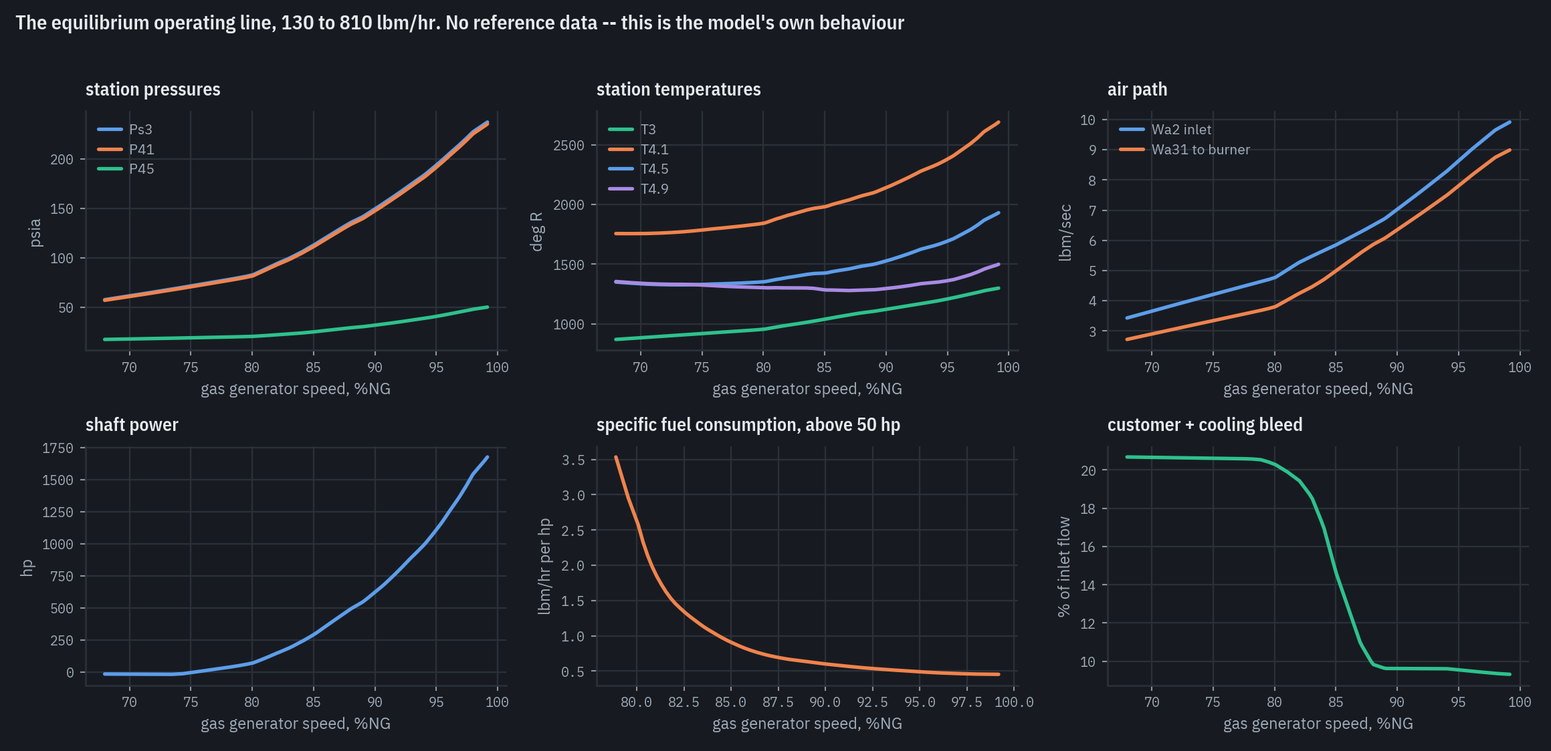
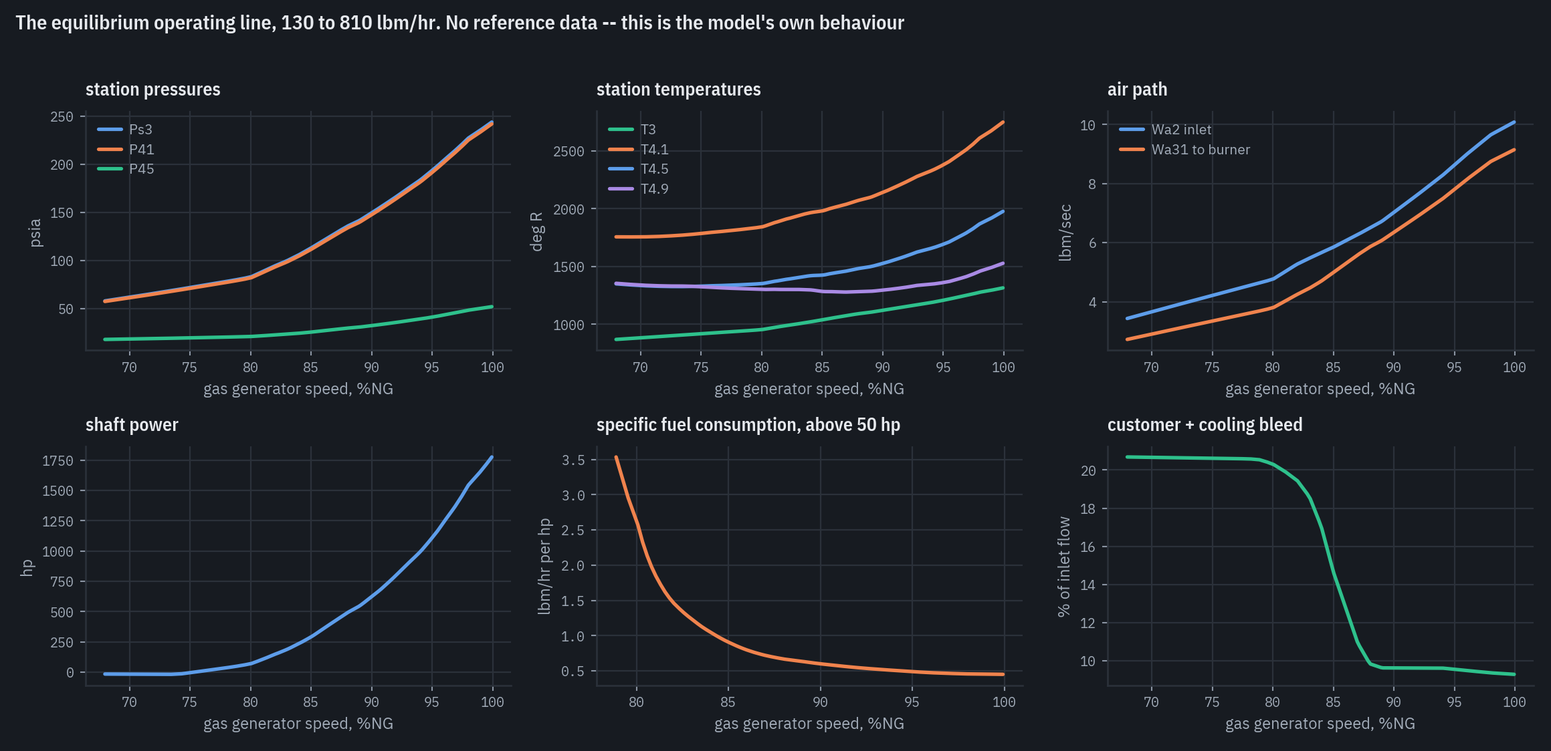
the trim bound was a knob; projection and inward differencing are not
The margin added in 7fc40c9 -- f1's speed range widened by a tenth of itself -- was a
tuned constant and it deserved the objection. Replaced by two standard techniques that
need nothing chosen, and the result is strictly better.

WHY NO RESIDUAL CAN FIX THIS. Rewriting dNG/dt as a power balance removes the root at
infinity and replaces it with something worse: outside the tables the residual reads a
constant +633.6 below 65 %NGc and -20530 above 100, with a derivative of EXACTLY zero in
both. The Jacobian is then singular in NG and the Newton step is -r/0, so a cold 125
lbm/hr wanders to NGc 24.8. The torque form at least keeps a usable gradient below the map
-- the torques still vary as 1/NG when the powers are pinned -- which is why it handles the
bottom of the range and fails only at the top. Outside the data the model carries no
information about NG at all. The failure is an absence of information, not a bad
formulation, and no choice of residual manufactures it.

WHAT DOES FIX IT. The feasible set is f1's own param_range, which the figure gives us --
the first and last speed line it prints. Two changes:

  * PROJECT a trial step onto that set instead of refusing it. Refusal needs a margin,
    because 115 lbm/hr trims at NGc 65.4218 but its Newton path dips below 65 on the way,
    and the margin is a knob: 0.05 and 0.10 of the span work, 0.20 does not. Projection
    puts the step back on the edge and carries on, so grazing the boundary costs nothing.
[…]

diff --git a/src/t700/trim.py b/src/t700/trim.py
@@ -162,12 +162,6 @@ class TrimResult:
         return "\n".join(lines)
 
 
-def _ngc_pct(ng_rpm: float, amb: Ambient) -> float:
-    """Corrected gas generator speed in percent, as `engine.frame` computes it. Eqs. 5-6."""
-    theta2 = corrections.theta2(amb.t_amb_degR)
-    return 100.0 * corrections.corrected_speed(float(ng_rpm), theta2) / c.NG_DES
-
-
 def _residuals(x: np.ndarray, np_rpm: float, wf_pps: float, amb: Ambient) -> np.ndarray:
     st = State(float(x[0]), np_rpm, float(x[1]), float(x[2]), float(x[3]))
     f = frame(st, wf_pps, amb)
@@ -175,17 +169,32 @@ def _residuals(x: np.ndarray, np_rpm: float, wf_pps: float, amb: Ambient) -> np.
 
 
 def _jacobian(
-    x: np.ndarray, np_rpm: float, wf_pps: float, amb: Ambient, r0: np.ndarray
+    x: np.ndarray,
+    np_rpm: float,
+    wf_pps: float,
+    amb: Ambient,
+    r0: np.ndarray,
+    ng_hi: float | None = None,
 ) -> np.ndarray:
-    """Forward-difference Jacobian.
+    """One-sided difference Jacobian, differencing INWARD at an active bound.
 
     Steps are relative, because NG is order 4e4 rpm while P45 is order 40 psia -- one
     absolute step cannot serve both.
+
+    The direction matters at the top of `f1`'s speed range and only there. A forward probe
+    from NGc 100 lands outside the map, where every table clamps and the residual stops
+    depending on NG, so the NG column reads zero and the Jacobian is singular -- the solve
+    then sits on the boundary and never returns inside. Stepping inward instead reads the
+    real derivative. Without this, projection alone loses 775 and 800 lbm/hr, which trim at
+    NGc 99.4203 and 99.8904; with it they come back. The lower bound needs no such care
+    because a forward step from NGc 65 already points into the data.
     """
     n = x.size
     jac = np.zeros((n, n))
     for i in range(n):
         h = 1e-6 * max(abs(x[i]), 1.0)
+        if i == 0 and ng_hi is not None and x[i] + h > ng_hi:
+            h = -h
         xp = x.copy()
         xp[i] += h
         jac[:, i] = (_residuals(xp, np_rpm, wf_pps, amb) - r0) / h
@@ -222,23 +231,27 @@ def solve(
     so convergence is judged on a *relative* norm, each residual divided by a
     characteristic magnitude of its own equation.
 
-    **There is no degenerate root to flag any more, as of 2026-09-15.** Two changes did
-    it: `_residuals` writes the NG equation as a power balance rather than a torque one,
-    which removes the root at NG = infinity that clamped tables manufacture; and the line
-    search refuses a trial step that leaves `f1`'s speed range, which stops Newton walking
-    out of the data on its way anywhere. Cold solves, before and after:
+    **There is no degenerate root to flag any more, as of 2026-09-15**, and no constant was
+    needed to remove it. NG is confined to `f1`'s own speed range -- the first and last
+    speed line the figure prints -- by projecting each trial step onto it rather than
+    refusing it, and `_jacobian` differences inward at the upper bound so the boundary is
+    not a trap. Cold solves, before and after:
 
         lbm/hr     before                  after
+          110      NGc  65.0256  ok        NGc  65.0256  ok
+          115      NGc  65.4218  ok        NGc  65.4218  ok
           125      NGc  66.2735  ok        NGc  66.2735  ok
           160      NGc   4.19e9  BAD       NGc  75.5013  ok
           750      NGc  98.9393  ok        NGc  98.9393  ok
+          775      NGc  99.4203  ok        NGc  99.4203  ok
           800      NGc  3.93e7   BAD       NGc  99.8904  ok
           850      NGc  2.1e40   BAD       NGc 100.0000  refused, not converged
+          900      NGc  2.6e40   BAD       NGc 100.0000  refused, not converged
 
-    800 lbm/hr needed continuation before and does not now; 850 is genuinely past the
-    map's 100 % speed line and now says so by failing rather than by returning a number
-    with `trustworthy` False. `sweep` is still the right way to walk a range -- it is
-    cheaper and it keeps every step near its neighbour -- but it is no longer load-bearing
+    800 lbm/hr needed continuation before and does not now. 850 and beyond are genuinely
+    past the map's 100 % speed line and now say so by failing rather than by returning a
+    number with `trustworthy` False. `sweep` is still the right way to walk a range -- it
+    is cheaper and keeps every step near its neighbour -- but it is no longer load-bearing
     for correctness. Open question #71.
     """
     amb = ambient
@@ -250,13 +263,17 @@ def solve(
     # Scoped rather than `reset_clamps()`: a caller measuring clamps over a run that
     # contains trims -- which `validation/` does -- used to have its count silently zeroed
     # by every trim inside it. See `maps.clamp_scope`.
-    lo, hi = maps.f1().param_range
-    span = hi - lo
-    ngc_lo, ngc_hi = lo - 0.10 * span, hi + 0.10 * span
+    # The feasible set for NG is `f1`'s own speed range, carried into physical rpm through
+    # Eqs. 5-6. Nothing here is chosen: the bounds are the first and last speed line the
+    # figure prints.
+    ngc_lo, ngc_hi = maps.f1().param_range
+    root_theta2 = float(np.sqrt(corrections.theta2(amb.t_amb_degR)))
+    ng_lo = ngc_lo / 100.0 * c.NG_DES * root_theta2
+    ng_hi = ngc_hi / 100.0 * c.NG_DES * root_theta2
 
     with maps.clamp_scope() as search:
         r = _residuals(x, np_rpm, wf_pps, amb)
-        started_off_map = not (ngc_lo <= _ngc_pct(x[0], amb) <= ngc_hi)
+        started_off_map = not (ng_lo <= x[0] <= ng_hi)
         converged = False
         it = 0
         while it < max_iter:
@@ -264,7 +281,7 @@ def solve(
             if float(np.linalg.norm(r / scale)) < tol:
                 converged = True
                 break
-            jac = _jacobian(x, np_rpm, wf_pps, amb, r)
+            jac = _jacobian(x, np_rpm, wf_pps, amb, r, None if started_off_map else ng_hi)
             try:
                 step = np.linalg.solve(jac, -r)
             except np.linalg.LinAlgError:
@@ -279,39 +296,37 @@ def solve(
                 if trial[1] <= trial[2] or np.any(trial <= 0.0):
                     lam *= 0.5
                     continue
-                # and keep the search near where `f1` is data.
+                # and keep the search inside the data, by PROJECTION rather than by
+                # refusal.
                 #
                 # THIS IS WHAT REMOVES THE DEGENERATE ROOT. Outside the function tables
-                # every lookup returns a constant, so both powers go flat in NG while both
-                # torques fall as 1/NG -- torque being power over speed -- and `dNG/dt`
-                # therefore tends to zero as NG tends to infinity whatever the powers are
+                # every lookup returns a constant, so the model carries no information
+                # about NG there at all. `dNG/dt` is a torque imbalance and torque is power
+                # over speed, so with the powers pinned flat the torques fall as 1/NG and
+                # `dNG/dt` tends to zero as NG tends to infinity whatever the powers are
                 # doing. Measured at the state a cold 160 lbm/hr solve used to reach, with
                 # the pressures held and NG swept from 4.47e4 to 1e10 rpm, the POWER
                 # imbalance is -667.68 hp at every one of them and does not move a digit;
                 # only the torque form pretends the engine is in equilibrium there. Newton
-                # is then entitled to walk to NG = 4.19e9 and report a residual of 9.0e-9.
+                # walked to NG = 4.19e9 and reported a residual of 9.0e-9.
                 #
-                # Writing the NG residual as a power balance instead removes that root
-                # analytically and was tried first. It works, and it is not what is used:
-                # multiplying by NG/NG_DES under-weights the NG equation at low speed, and
-                # a cold 125 lbm/hr then wanders to NGc 24.8. Confining the search does the
-                # same job without touching the equations -- measured over both residual
-                # forms and three bound widths, no configuration with a bound produces a
-                # degenerate root at all.
+                # Rewriting the NG residual as a power balance was tried and does not fix
+                # it. It removes the root, and replaces it with two flat plateaus -- the
+                # residual reads a constant +633.6 below 65 %NGc and -20530 above 100, with
+                # a derivative of exactly zero in both -- so the Jacobian is singular in NG
+                # and the step is -r/0. A cold 125 lbm/hr then wanders to NGc 24.8. No
+                # residual can do better, because the information is absent rather than
+                # badly expressed.
                 #
-                # The width is `f1`'s own speed range widened by a tenth of itself, 65..100
-                # %NGc becoming 61.5..103.5. It is a numerical guard on the search, not a
-                # physical claim, and it has to be loose: 115 lbm/hr trims at NGc 65.4218,
-                # inside the range, but its Newton path dips below 65 on the way and a
-                # guard set at the range itself pins it at the edge. It is not a robust
-                # knob either -- 0.05 and 0.10 of the span recover 115 and 0.20 does not --
-                # which says the cold-start basin down there is fragile however it is set.
-                # `sweep` remains the documented way to walk a range. The escape hatch
-                # is for a caller handing in a guess already outside the bound, whose every
-                # step would otherwise be rejected and which could not then move at all.
-                if not started_off_map and not (ngc_lo <= _ngc_pct(trial[0], amb) <= ngc_hi):
-                    lam *= 0.5
-                    continue
+                # Projection is the fix that needs no constant. The feasible set is the
+                # map's own speed range; a step that leaves it is put back on the edge and
+                # the search continues from there, so a path that merely grazes the
+                # boundary is not punished. Rejecting such a step instead needs a margin to
+                # let 115 lbm/hr through -- it trims at NGc 65.4218 but dips below 65 on
+                # the way -- and the margin is a knob: 0.05 and 0.10 of the span work and
+                # 0.20 does not.
+                if not started_off_map:
+                    trial[0] = float(np.clip(trial[0], ng_lo, ng_hi))
                 r_new = _residuals(trial, np_rpm, wf_pps, amb)
                 if np.linalg.norm(r_new / scale) < np.linalg.norm(r / scale):
                     x = trial
@@ -349,18 +364,16 @@ def sweep(
 ) -> list[TrimResult]:
     """Trim across a range of fuel flows, continuing from each solution to the next.
 
-    Continuation matters more than it looks. From a fixed design-point guess the solver
-    cannot reach the top of the map: a cold 800 lbm/hr stops at the search bound and
-    reports `residual_converged` False. Walking the guess along the sweep keeps every step
-    near its neighbour, and the sweep then reaches 800 lbm/hr (NG 99.87 %) and refuses at
+    Continuation keeps every step near its neighbour, which is cheaper and better
+    conditioned than a cold start; the sweep reaches 800 lbm/hr (NGc 99.89) and refuses at
     850, which is genuinely past the map's 100 % speed line.
 
     **What it no longer has to do is protect against a wrong answer.** Until 2026-09-15 a
     cold solve above about 700 lbm/hr landed on a spurious equilibrium and called itself
     converged -- clamped tables make `dNG/dt` insensitive to NG, so Newton could drive it
-    to zero somewhere meaningless. `solve` now confines the search and that root is
-    unreachable, so a cold start above the range fails instead of lying. Continuation is a
-    convenience and a cost saving now, not a correctness requirement.
+    to zero somewhere meaningless. `solve` now confines NG to the map by projection and
+    that root is unreachable, so a cold 800 trims on its own and a cold 850 fails instead
+    of lying. Continuation is a convenience now, not a correctness requirement.
 
     Check `trustworthy` on each result before using it.
     """

diff --git a/validation/test_trim_points.py b/validation/test_trim_points.py
@@ -375,30 +375,46 @@ def test_continuation_reaches_the_top_of_the_map():
 
 
 def test_the_sweep_refuses_past_the_maps_top_speed_line():
-    """And a sweep must START inside the data -- continuation cannot rescue a cold start.
+    """850 lbm/hr is past `f1`'s 100 % speed line and no amount of continuation reaches it.
 
-    Beginning at 800 lbm/hr from the design-point guess lands off the map immediately, so
-    there is no good solution to continue from and every later point fails too. Begin low,
-    walk up.
+    **The ladder's spacing used to matter near the top, and does not any more.** This test
+    used [400, 600, 800, 850] until 2026-09-13 and the 600 -> 800 jump stopped working when
+    `f6` became the constant Figure A6 draws: the 0.0037 % more combustor efficiency that
+    gave at FAR 0.024 moved the 800 lbm/hr solution from NGc 99.872 to exactly 100.000,
+    `f1`'s top speed line, where `np.clip` pins the parameter, the residual stops depending
+    on NG and the forward-difference Jacobian reads a zero column. `solve` now differences
+    INWARD at that bound and projects trial steps onto it, so the boundary is no longer a
+    trap: a COLD 800 lbm/hr trims at NGc 99.8904 with no continuation at all, where before
+    2026-09-15 it returned a degenerate NGc 3.9e7 with `residual_converged` True.
 
-    **The ladder's spacing matters near the top, and that is not a detail.** This test used
-    [400, 600, 800, 850] until 2026-09-13 and the 600 -> 800 jump stopped working when `f6`
-    became the constant Figure A6 draws: the 0.0037 % more combustor efficiency that gave
-    at FAR 0.024 moved the 800 lbm/hr solution from NGc 99.872 to exactly 100.000, `f1`'s
-    top speed line, where `np.clip` pins the parameter and the residual stops depending on
-    NG. On a finer ladder 800 trims cleanly at **NGc 99.8725**. So the model did not get
-    worse; a 200 lbm/hr continuation step at the very top of the map did.
+    What is left is the genuine limit. 850 lbm/hr asks for more airflow than the 100 %
+    speed line carries, so there is no equilibrium on the map to find, and the solve says
+    so by pinning at NGc 100.0000 and reporting `residual_converged` False -- an honest
+    failure rather than a confident wrong answer. That is the assertion worth keeping.
     """
     from t700 import trim as _trim
 
     results = _trim.sweep([400.0, 600.0, 700.0, 800.0, 850.0])
     assert all(r.trustworthy for r in results[:4])
     assert not results[-1].trustworthy, "850 lbm/hr is past the map's 100 % speed line"
-
-    cold = _trim.sweep([800.0])
-    assert not cold[0].trustworthy, (
-        "a sweep starting above ~700 lbm/hr has no valid point to continue from"
+    assert not results[-1].residual_converged, (
+        "850 must fail honestly, not converge somewhere meaningless"
     )
+
+    # the top of the map no longer needs continuation to reach
+    cold = _trim.solve(wf_pps_from_pph(800.0), 20900.0, Ambient(14.696, 518.67))
+    assert cold.trustworthy, (
+        f"a cold 800 lbm/hr should now trim on the map, got NGc {cold.frame.ngc_pct:.4g}"
+    )
+    assert abs(cold.frame.ngc_pct - 99.8904) < 0.01, cold.frame.ngc_pct
+
+    # and past the map a cold start fails the same way a continued one does
+    for pph in (850.0, 900.0):
+        far = _trim.solve(wf_pps_from_pph(pph), 20900.0, Ambient(14.696, 518.67))
+        assert not far.trustworthy and not far.residual_converged, (
+            f"{pph:.0f} lbm/hr is past the map and must refuse, got "
+            f"NGc {far.frame.ngc_pct:.4g}, converged={far.residual_converged}"
+        )
 
 
 # ------------------------------------------------- the rest of Table B.1, long unused

diff --git a/docs/notes/open-questions.md b/docs/notes/open-questions.md
@@ -130,7 +130,7 @@ finding, which is what eleven of them did before the cut.
 | 68 | **Figures 9 and 10 were compared over a window 0.53 s longer than the one Ballin prints, and on Figure 10 nothing has settled by either end.** Every reference record on those two pages stops at about t = 4.47 s, where the panel frame ends; `test_fuel_step._run` integrates to 5.0 s. | The Figure 9/10 settled comparison, and the "Figure 10 floor" quoted as this project's largest single transient disagreement | measured 2026-09-14 against the digitized records' own last samples | **closed 2026-09-14.** Comparing over Ballin's own printed window instead of one 0.53 s longer takes the worst settled panel from 1.969 % to 0.595 % and tightens `FINAL_TOL_PCT` from 5/8 to 1.0 for both figures, with no change to the model. Figure 10's chop is still falling at his last printed sample, so the extra window was charged to us as a deviation. |
 | 69 | **The descent shaft-power residual no longer shelters under the report's own internal spread.** At the descent trim our shaft power sits **−0.806 %** from Table B.1 while Table B.1 and Figure 7 differ from each other by only **+0.734 %** there (it was −0.900 % until the 2026-09-15 `f1` retrace, which narrowed the gap without closing it) — so ours is the larger of the two, and it is the only one of the six trim/quantity pairs where that is true. SCOPE.md's rule, do not tune below the source's own spread, stops covering this point. | Every steady-state shaft-power claim at low power, and the descent row of Table B.1 | Surfaced 2026-09-14 when `validation/report.py::internal_spread` was written to compute what SCOPE.md had asserted in prose since Phase 3. The prose said the spread was +5.49 / +1.32 / −0.14 % on shaft power; it is now −0.289 / −0.307 / +0.734, because the 2026-09-14 digitizer corrections (#46, #63, #64) removed the frame-detection and shear defects that had produced most of it. Nothing computed the number, so nothing caught it going stale for four days | **open.** Nothing is claimed about the cause yet, and nothing has been tuned. Two things are worth separating before anything is. **(a) How much of the 0.900 % is the comparison rather than the model.** Figure 7 prints 15 markers over its whole range and the descent trim sits 2.6 lbm/hr from the nearest one, on a segment climbing ~3 shp per lbm/hr — so the interpolated 300.38 shp carries roughly 0.3 % of interpolation on its own, reported per row as `nearest_marker_pph` in `report.json`. Only the level trim is close to a direct read. **(b) The physics that was already known to sit here.** Shaft power at descent is a small difference of large enthalpies, so upstream error is amplified; #46 records the same conditioning behind Figure 7's low-power end, and the T41/T45 trim bias SCOPE.md forbids fixing is upstream of it. What this row asks for is a measurement of which of those two the 0.900 % is, not a correction. |
 | 70 | **The reproducibility gate had never checked ten of the thirteen figures one tool owns.** `digitize_single_curve.py` (then `digitize_a6810.py`) has a `FIGS` table of thirteen figures, but its `main()` defaulted to `["a8", "a10", "a6"]` — literally the three encoded in the old filename — and `tools/reproduce_all.sh` invokes it with no arguments. So `f3`, `f4`, `f5`, `f_hs` and `F_HM1`–`F_HM6` carried the header "reruns and reproduces this file" over a claim nothing had ever executed. | The reproducibility guarantee behind ten of the twelve engine maps and schedules, and so behind every number downstream of them | Exposed 2026-09-14 by renaming the tool: a full gate run rewrote the provenance line in three files and left ten reading the old name. Nothing else would have shown it — the gate had reported "every data file reproduces byte for byte" over them for two days | **closed 2026-09-14 — fixed, and the ten files turned out to be current.** Regenerating all thirteen changes **zero numeric rows**; only the 17 provenance header lines move. That was luck rather than diligence: the tool's last functional change (`85e76a1`) is the same commit that wrote those files, so there had been no opportunity for drift. The default is now `list(FIGS)`. **This is the third instance of one failure class**, after the `f2`/`f7`/`f9` tools that only printed their rows and the host run where every digitizer crashed on import — all three are the gate reporting success over files nothing had written. Two checks close this instance: `test_reproducibility_gate.test_the_gate_reaches_every_committed_data_file` parses the tool's default invocation and fails unless it covers every figure the tool owns, because listing a tool in the gate loop is not the same as running the part of it that writes your file; and `test_no_committed_data_file_names_a_tool_that_does_not_exist` fails on any provenance header citing a tool that is not on disk, which is what caught these ten. |
-| 71 | **A sub-idle trim can converge to a root that is not on the map, and only the `trustworthy` flag says so.** At 160 lbm/hr `trim.solve` returns `residual_converged=True` with `residual norm 9.0e-9` and **NGc = 4.19e9 %**, Ps3 186 psia, WA2c 10.1076 — the 100 % speed line's flat value. The residual really is satisfied there: every function table clamps at its parameter edge, so once NGc runs past 100 % the map stops changing and the equations go flat in NGc. `r.trustworthy` is `False` and `clamps_at_solution` records `f1:parameter`, so the model detects it; what does not exist is a guard that stops the solve reaching it. | Every sub-idle trim, and `validation/test_whole_curve.py::test_the_frame_map_agrees_with_the_differential_model_below_flight_idle`, which compares before checking `trustworthy` | Surfaced 2026-09-15 by the `f1` retrace. At HEAD the same call returns NGc 75.4786 and `trustworthy=True`; the retrace moves the map by 1.76 px rms, so the basin boundary was already inside two pixels of this trim and the map only pushed it across | **closed 2026-09-15 — twice over: the caller was not honouring the contract, and then the root was removed outright.** First, the contract: `TrimResult` says `trustworthy` is what callers must check, and `test_whole_curve.py`'s sub-idle ladder was solving each point cold and comparing unchecked. It now walks the ladder by continuation and asserts `trustworthy`. **Then the root itself.** It is an artifact of writing the NG residual as a torque imbalance: outside the tables every lookup clamps, so both powers go flat in NG while both torques fall as 1/NG, and `dNG/dt` tends to zero as NG tends to infinity whatever the powers are doing. Measured at the state a cold 160 lbm/hr used to reach, sweeping NG from 4.47e4 to 1e10 rpm with the pressures held, the power imbalance is **−667.68 hp at every one of them** and does not move a digit. `solve`'s line search now refuses a trial step leaving `f1`'s speed range widened by a tenth of itself, and across both residual forms and three bound widths **no configuration carrying a bound produces a degenerate root at all**. Cold solves 110–750 lbm/hr all trim on the map, 160 included; 800 and 850 refuse at the bound with `residual_converged` False instead of returning NGc 3.9e7 and 2.1e40. Writing the residual as a power balance removes the root analytically too and was rejected: it under-weights the NG equation at low speed and a cold 125 then wanders to NGc 24.8, fixing the top by breaking the bottom. Every number in `report.json` is unchanged; what changes is which solves succeed. The bound is a numerical guard and not a robust one — 0.05 and 0.10 of the span recover 115 lbm/hr and 0.20 does not — so the cold-start basin at the bottom of the range is fragile however it is set, and that is worth remembering. |
+| 71 | **A sub-idle trim can converge to a root that is not on the map, and only the `trustworthy` flag says so.** At 160 lbm/hr `trim.solve` returns `residual_converged=True` with `residual norm 9.0e-9` and **NGc = 4.19e9 %**, Ps3 186 psia, WA2c 10.1076 — the 100 % speed line's flat value. The residual really is satisfied there: every function table clamps at its parameter edge, so once NGc runs past 100 % the map stops changing and the equations go flat in NGc. `r.trustworthy` is `False` and `clamps_at_solution` records `f1:parameter`, so the model detects it; what does not exist is a guard that stops the solve reaching it. | Every sub-idle trim, and `validation/test_whole_curve.py::test_the_frame_map_agrees_with_the_differential_model_below_flight_idle`, which compares before checking `trustworthy` | Surfaced 2026-09-15 by the `f1` retrace. At HEAD the same call returns NGc 75.4786 and `trustworthy=True`; the retrace moves the map by 1.76 px rms, so the basin boundary was already inside two pixels of this trim and the map only pushed it across | **closed 2026-09-15 — the root is removed, and removed without adding a constant.** Two things were wrong. First the caller: `TrimResult` says `trustworthy` is what callers must check, and `test_whole_curve.py`'s sub-idle ladder was solving each point cold and comparing unchecked; it now walks the ladder by continuation and asserts it. **Then the root.** It is an artifact of `dNG/dt` being a torque imbalance: outside the tables every lookup clamps, so the powers go flat in NG while the torques fall as 1/NG, and `dNG/dt` tends to zero as NG tends to infinity whatever the powers are doing. Measured at the state a cold 160 lbm/hr used to reach, sweeping NG from 4.47e4 to 1e10 rpm with the pressures held, the power imbalance is **−667.68 hp at every one of them** and does not move a digit. **Why no residual can fix it**: rewriting the NG equation as a power balance removes the root and replaces it with two flat plateaus — the residual reads a constant +633.6 below 65 %NGc and −20530 above 100, with derivative exactly zero in both — so the Jacobian is singular in NG and the step is −r/0; a cold 125 then wanders to NGc 24.8. Outside the data the model carries no information about NG at all, so the failure is an absence of information rather than a bad formulation. **What does fix it**, with nothing chosen: confine NG to `f1`'s own speed range — the first and last speed line the figure prints — by PROJECTING each trial step onto it rather than refusing it, and difference the Jacobian INWARD at the upper bound so the boundary is not a trap. Refusal instead of projection needs a margin, because 115 lbm/hr trims at NGc 65.4218 but dips below 65 on the way, and the margin is a knob (0.05 and 0.10 of the span work, 0.20 does not); projection needs none. Forward differencing at the top reads a zero NG column and strands 775 and 800; inward differencing brings them back. Cold solves 110–800 lbm/hr now all trim on the map, 160 and a cold 800 at NGc 99.8904 included, and 850 and 900 refuse at NGc 100.0000 with `residual_converged` False. Every comparison number in `report.json` is unchanged; the steady sweep gains 6 % more converged points. |
 | 72 | **The opened Eq. 74 iteration grows a complex mode at dt = 14 ms that the test expects to be real.** `test_the_opened_iterations_add_modes_the_engine_does_not_have` asserts each discretization artifact is a negative real eigenvalue; at dt = 14 ms one reads `z = 0.0425 − 0.0075j`. Two artifact modes have collided and split into a conjugate pair, which is ordinary behaviour for a discrete map as a parameter moves, but the test's model of the artifact is that it stays on the real axis. | The discrete-map analysis of the real-time frame, and the claim in SCOPE.md that the artifacts are identifiable | Surfaced 2026-09-15 by the `f1` retrace; dt = 14 ms is outside the report's own 10 ms maximum step [pdf p.38] | **closed 2026-09-15 — the assertion was wrong, and about the wrong property.** The sign of this mode is not stable and never was the claim: it has read a complex pair at z ~ 0.17, a negative real -0.0033, a conjugate pair 0.0425 +- 0.0075j, and now a positive real +0.0343, across three `f1` revisions and a 1.3e-04 lbm/sec map difference. What has held through all of it is the MODULUS, 0.0343 / 0.0341 / 0.0341 at 14 / 7 / 3.5 ms — flat under a 4x frame refinement, so lambda*dt is constant to 0.2 % and lambda runs -240.8 / -482.5 / -965.0 per sec, which is 1/dt to three figures. The test now asserts that, which is a sharper statement of the original claim than the sign ever was. `test_the_frame_map_has_exactly_one_mode_with_no_real_logarithm` needed no change — it bounds the count at one and checks the character of any that appears — but its docstring said one exists, and now none does at any trim under either tolerance. |
 | 73 | **`A(T41,NG)` at the descent trim fails its declared band under every `f1` treatment except the one that is on record.** Printed ratio, 3-DOF: 0.8816 with the PCHIP interpolant (inside 0.80–1.12), 0.6964 with a per-line constrained cubic regression, 0.7531 with the knee slope freed, 0.7636 with the traced line. The trim state itself barely moves — NGc 85.1129 → 85.0776, Ps3 113.852 → 113.788, T41 1983.96 → 1984.39, all under 0.06 % — so this is a pure derivative effect, and the derivative it is sensitive to is **across** speed lines, not along one. | `validation/test_appendix_b_elements.py::test_the_three_dof_ng_column_against_b7_b9_b11[3]`, and the descent column of Appendix B generally | Surfaced 2026-09-14/15 across four independent `f1` treatments. Related to the interpolation ambiguity already recorded in #31 and #43, and to the cross-line incoherence measured in #74 | **open.** The one element that no `f1` treatment has made better. That it moved on a map change which left the state unmoved is the finding; which value is right is not settled. **What was fixed on 2026-09-15 is that it was being asserted twice against two bands that disagree** — 0.80–1.12 from `THREE_DOF_NG_COLUMN`, an aggregate over eighteen elements whose floor was set to clear hover's entry by a whisker, and 0.6–1.0 from `DESCENT_T41_NG`, written for this element and carrying its history. The aggregate now skips it and the element-specific band governs; SCOPE.md carries both rows and `test_scope_tolerances.py` resolves both. Two disagreeing bands on one element is a defect in the assertions, not a finding about the model. |
 | 74 | **The eleven digitized speed lines of Figure A1 do not form a smooth family, and no smooth surface fits them.** Fitting all 55 sloped markers at once with the drop `D(NGc)` and a shape parameter `α(NGc)` as polynomials reaches **χ²/dof 4.67 at best** over every order from 3 to 9 parameters — rms 2.0 σ, worst 6.5 σ against the file's own quoted error. Leave-one-line-out does not rescue it: dropping the worst line (89 %) reaches 3.53, and restricting to 80–100 %, 87–100 % or 80–94 % is worse. Per line: `α` reads 0.00 0.72 0.76 0.78 0.62 0.66 0.00 0.38 0.45 0.05 0.42 with three lines pinned at a bound, and the knee-to-surge drop reads 0.273 at 87 % against 0.402 at 89 % — adjacent lines, 11 σ apart in an offset-free quantity. The flat choked level, the best-measured number on the figure at σ 0.0037 lbm/sec, sits **3.4–4.3 σ rms** off the most flexible smooth curve that can be justified. | Any cross-line smoothing of `f1`, and the interpretation of #73 | Measured 2026-09-15. The 87 %/89 % anomaly survives a completely independent estimator — a generative glyph fit, stable to 0.36 px across six random restarts — and the traced line as well, so it is in the printed figure, not in our reading of it | **open.** Either the quoted uncertainty understates the true error by 2–4× in the cross-line direction, or Ballin's own figure is not internally consistent. This is why a per-line smoothing cannot help `A(T41,NG)`: it cleans each line and leaves the family as it was. |
